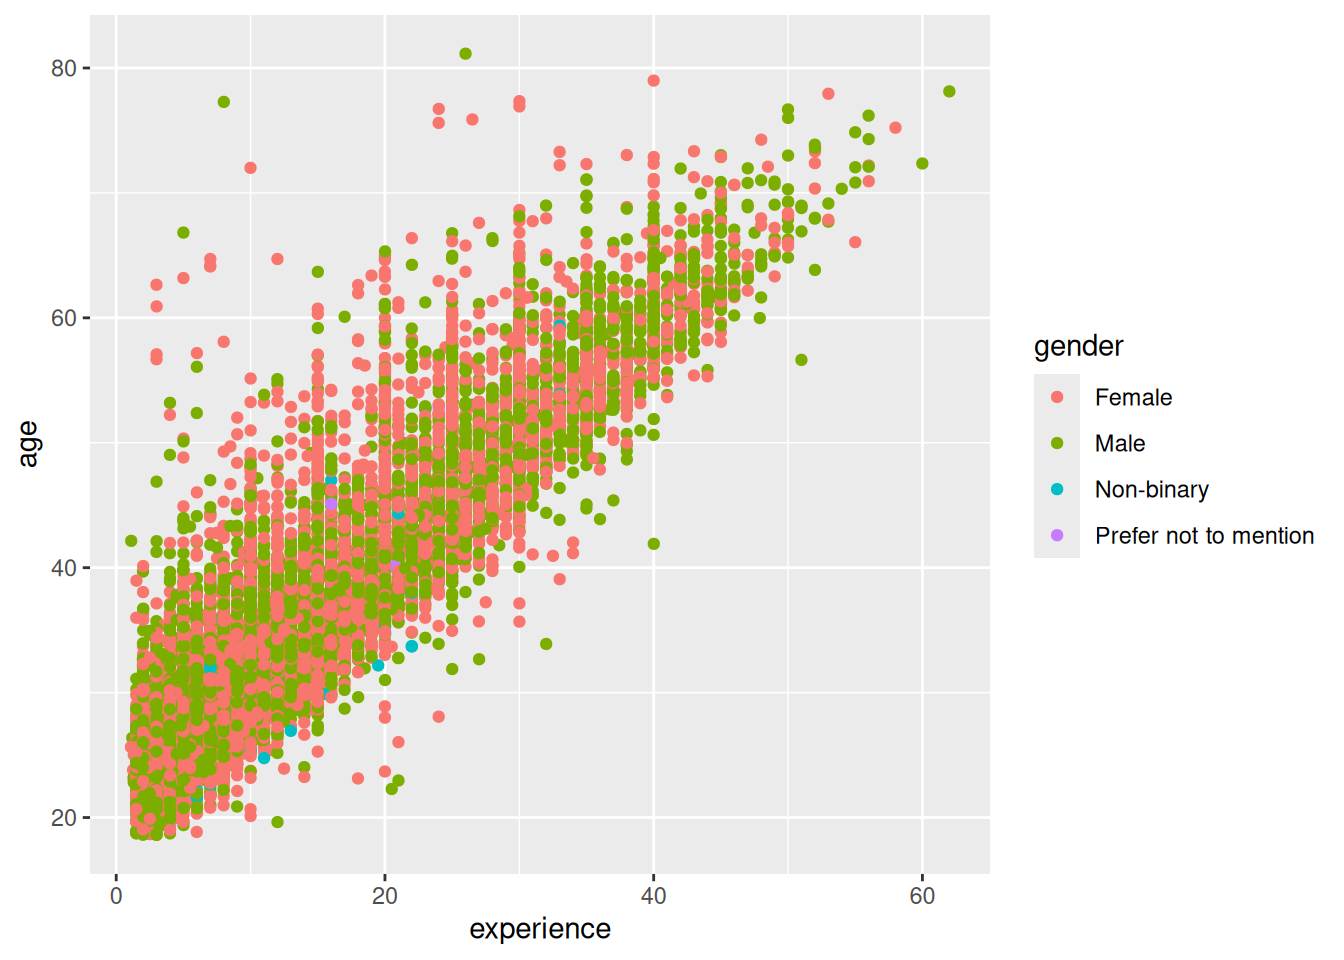
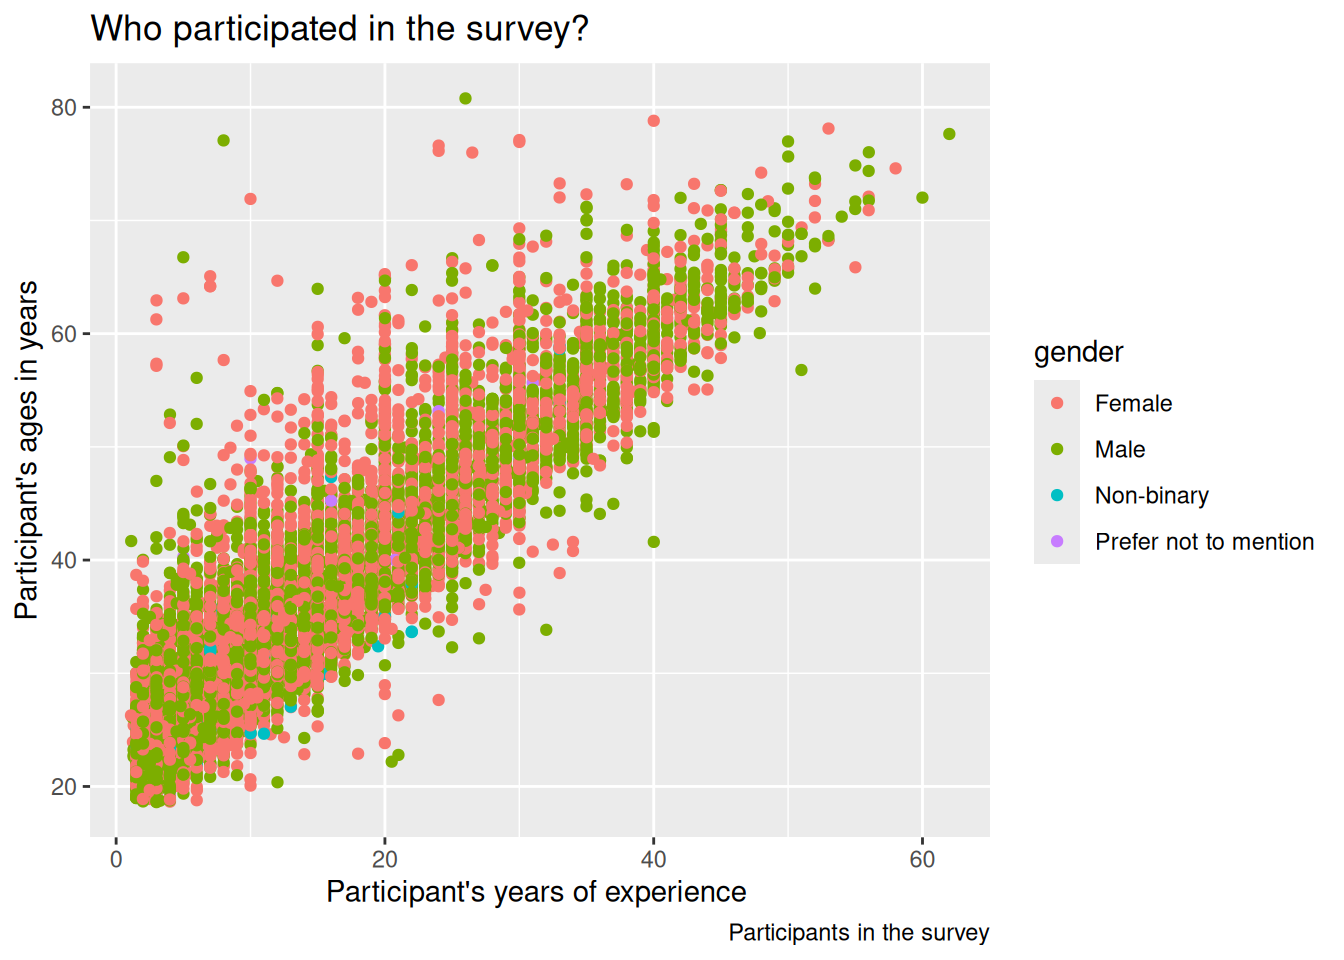
Mini Expo Done

diff --git a/docs/ResearchProject.html b/docs/ResearchProject.html
@@ -9,7 +9,7 @@
 <meta name="author" content="Diego Arias">
 <meta name="dcterms.date" content="2026-08-20">
 
-<title>Does remote work positivley impact workers in Europe? – quartoCourseBlog</title>
+<title>Does remote work positively impact workers in Europe? – quartoCourseBlog</title>
 <style>
 code{white-space: pre-wrap;}
 span.smallcaps{font-variant: small-caps;}
@@ -158,7 +158,7 @@ pre > code.sourceCode > span > a:first-child::before { text-decoration: underlin
 
 <header id="title-block-header" class="quarto-title-block default">
 <div class="quarto-title">
-<h1 class="title">Does remote work positivley impact workers in Europe?</h1>
+<h1 class="title">Does remote work positively impact workers in Europe?</h1>
   <div class="quarto-categories">
     <div class="quarto-category">goals</div>
     <div class="quarto-category">general</div>
@@ -232,26 +232,145 @@ pre > code.sourceCode > span > a:first-child::before { text-decoration: underlin
 <span id="cb6-14"><a href="#cb6-14" aria-hidden="true" tabindex="-1"></a></span>
 <span id="cb6-15"><a href="#cb6-15" aria-hidden="true" tabindex="-1"></a>new_rmap<span class="sc">$</span>experience <span class="ot">&lt;-</span> <span class="fu">as.numeric</span>(<span class="fu">gsub</span>(<span class="st">","</span>, <span class="st">"."</span>, new_rmap<span class="sc">$</span>experience))</span>
 <span id="cb6-16"><a href="#cb6-16" aria-hidden="true" tabindex="-1"></a>new_rmap<span class="sc">$</span>education <span class="ot">&lt;-</span> <span class="fu">as.numeric</span>(<span class="fu">gsub</span>(<span class="st">","</span>, <span class="st">"."</span>, new_rmap<span class="sc">$</span>education))</span>
-<span id="cb6-17"><a href="#cb6-17" aria-hidden="true" tabindex="-1"></a></span>
-<span id="cb6-18"><a href="#cb6-18" aria-hidden="true" tabindex="-1"></a></span>
-<span id="cb6-19"><a href="#cb6-19" aria-hidden="true" tabindex="-1"></a>new_rmap <span class="ot">&lt;-</span> new_rmap <span class="sc">|&gt;</span></span>
-<span id="cb6-20"><a href="#cb6-20" aria-hidden="true" tabindex="-1"></a>  <span class="fu">filter</span>(age <span class="sc">&gt;</span> <span class="dv">18</span> <span class="sc">&amp;</span> age <span class="sc">&lt;</span> <span class="dv">100</span> <span class="sc">&amp;</span> age <span class="sc">&gt;</span> experience <span class="sc">&amp;</span> remote_hours <span class="sc">&gt;=</span> <span class="dv">1</span> <span class="sc">&amp;</span> experience <span class="sc">&gt;</span> <span class="dv">1</span> <span class="sc">&amp;</span> age <span class="sc">&gt;</span> education)</span>
-<span id="cb6-21"><a href="#cb6-21" aria-hidden="true" tabindex="-1"></a></span>
-<span id="cb6-22"><a href="#cb6-22" aria-hidden="true" tabindex="-1"></a></span>
+<span id="cb6-17"><a href="#cb6-17" aria-hidden="true" tabindex="-1"></a>new_rmap<span class="sc">$</span>remote_hours <span class="ot">&lt;-</span> <span class="fu">as.numeric</span>(<span class="fu">gsub</span>(<span class="st">","</span>, <span class="st">"."</span>, new_rmap<span class="sc">$</span>remote_hours))</span>
+<span id="cb6-18"><a href="#cb6-18" aria-hidden="true" tabindex="-1"></a>new_rmap<span class="sc">$</span>office_hours <span class="ot">&lt;-</span> <span class="fu">as.numeric</span>(<span class="fu">gsub</span>(<span class="st">","</span>, <span class="st">"."</span>, new_rmap<span class="sc">$</span>office_hours))</span>
+<span id="cb6-19"><a href="#cb6-19" aria-hidden="true" tabindex="-1"></a></span>
+<span id="cb6-20"><a href="#cb6-20" aria-hidden="true" tabindex="-1"></a></span>
+<span id="cb6-21"><a href="#cb6-21" aria-hidden="true" tabindex="-1"></a>new_rmap <span class="ot">&lt;-</span> new_rmap <span class="sc">|&gt;</span></span>
+<span id="cb6-22"><a href="#cb6-22" aria-hidden="true" tabindex="-1"></a>  <span class="fu">filter</span>(age <span class="sc">&gt;</span> <span class="dv">18</span> <span class="sc">&amp;</span> age <span class="sc">&lt;</span> <span class="dv">100</span> <span class="sc">&amp;</span> age <span class="sc">&gt;</span> experience <span class="sc">&amp;</span> remote_hours <span class="sc">&gt;=</span> <span class="dv">1</span> <span class="sc">&amp;</span> experience <span class="sc">&gt;</span> <span class="dv">1</span> <span class="sc">&amp;</span> age <span class="sc">&gt;</span> education <span class="sc">&amp;</span> remote_hours <span class="sc">&lt;=</span> <span class="dv">60</span> <span class="sc">&amp;</span> office_hours <span class="sc">&lt;=</span> <span class="dv">60</span> <span class="sc">&amp;</span> remote_hours <span class="sc">+</span> office_hours <span class="sc">&lt;=</span> <span class="dv">60</span>)</span>
 <span id="cb6-23"><a href="#cb6-23" aria-hidden="true" tabindex="-1"></a></span>
-<span id="cb6-24"><a href="#cb6-24" aria-hidden="true" tabindex="-1"></a><span class="fu">ggplot</span>(</span>
-<span id="cb6-25"><a href="#cb6-25" aria-hidden="true" tabindex="-1"></a>  <span class="at">data =</span> new_rmap,</span>
-<span id="cb6-26"><a href="#cb6-26" aria-hidden="true" tabindex="-1"></a>  <span class="at">mapping =</span> <span class="fu">aes</span>(</span>
-<span id="cb6-27"><a href="#cb6-27" aria-hidden="true" tabindex="-1"></a>    <span class="at">x =</span> experience,</span>
-<span id="cb6-28"><a href="#cb6-28" aria-hidden="true" tabindex="-1"></a>    <span class="at">y =</span> age,</span>
-<span id="cb6-29"><a href="#cb6-29" aria-hidden="true" tabindex="-1"></a>    <span class="at">color =</span> gender</span>
-<span id="cb6-30"><a href="#cb6-30" aria-hidden="true" tabindex="-1"></a>  )</span>
-<span id="cb6-31"><a href="#cb6-31" aria-hidden="true" tabindex="-1"></a>) <span class="sc">+</span></span>
-<span id="cb6-32"><a href="#cb6-32" aria-hidden="true" tabindex="-1"></a>  <span class="fu">geom_point</span>(<span class="at">position =</span> <span class="st">"jitter"</span>)</span></code></pre></div><button title="Copy to Clipboard" class="code-copy-button"><i class="bi"></i></button></div>
+<span id="cb6-24"><a href="#cb6-24" aria-hidden="true" tabindex="-1"></a><span class="fu">max</span>(new_rmap<span class="sc">$</span>remote_hours, <span class="at">na.rm =</span> <span class="cn">TRUE</span>)</span></code></pre></div><button title="Copy to Clipboard" class="code-copy-button"><i class="bi"></i></button></div>
+<div class="cell-output cell-output-stdout">
+<pre><code>[1] 60</code></pre>
+</div>
+<div class="code-copy-outer-scaffold"><div class="sourceCode cell-code" id="cb8"><pre class="sourceCode r code-with-copy"><code class="sourceCode r"><span id="cb8-1"><a href="#cb8-1" aria-hidden="true" tabindex="-1"></a><span class="fu">ggplot</span>(</span>
+<span id="cb8-2"><a href="#cb8-2" aria-hidden="true" tabindex="-1"></a>  <span class="at">data =</span> new_rmap,</span>
+<span id="cb8-3"><a href="#cb8-3" aria-hidden="true" tabindex="-1"></a>  <span class="at">mapping =</span> <span class="fu">aes</span>(</span>
+<span id="cb8-4"><a href="#cb8-4" aria-hidden="true" tabindex="-1"></a>    <span class="at">x =</span> experience,</span>
+<span id="cb8-5"><a href="#cb8-5" aria-hidden="true" tabindex="-1"></a>    <span class="at">y =</span> age,</span>
+<span id="cb8-6"><a href="#cb8-6" aria-hidden="true" tabindex="-1"></a>    <span class="at">color =</span> gender</span>
+<span id="cb8-7"><a href="#cb8-7" aria-hidden="true" tabindex="-1"></a>  )</span>
+<span id="cb8-8"><a href="#cb8-8" aria-hidden="true" tabindex="-1"></a>) <span class="sc">+</span></span>
+<span id="cb8-9"><a href="#cb8-9" aria-hidden="true" tabindex="-1"></a>  <span class="fu">geom_point</span>(<span class="at">position =</span> <span class="st">"jitter"</span>) <span class="sc">+</span></span>
+<span id="cb8-10"><a href="#cb8-10" aria-hidden="true" tabindex="-1"></a>  <span class="fu">labs</span>(</span>
+<span id="cb8-11"><a href="#cb8-11" aria-hidden="true" tabindex="-1"></a>    <span class="at">title =</span> <span class="st">"Who participated in the survey?"</span>,</span>
+<span id="cb8-12"><a href="#cb8-12" aria-hidden="true" tabindex="-1"></a>    <span class="at">y =</span> <span class="st">"Participant's ages in years"</span>,</span>
+<span id="cb8-13"><a href="#cb8-13" aria-hidden="true" tabindex="-1"></a>    <span class="at">x =</span> <span class="st">"Participant's years of experience "</span>,</span>
+<span id="cb8-14"><a href="#cb8-14" aria-hidden="true" tabindex="-1"></a>    <span class="at">caption =</span> <span class="st">"Participants in the survey"</span></span>
+<span id="cb8-15"><a href="#cb8-15" aria-hidden="true" tabindex="-1"></a>  )</span></code></pre></div><button title="Copy to Clipboard" class="code-copy-button"><i class="bi"></i></button></div>
 <div class="cell-output-display">
 <div>
 <figure class="figure">
 <p><img src="ResearchProject_files/figure-html/unnamed-chunk-1-1.png" class="img-fluid figure-img" width="672"></p>
+</figure>
+</div>
+</div>
+<div class="code-copy-outer-scaffold"><div class="sourceCode cell-code" id="cb9"><pre class="sourceCode r code-with-copy"><code class="sourceCode r"><span id="cb9-1"><a href="#cb9-1" aria-hidden="true" tabindex="-1"></a><span class="fu">ggsave</span>(<span class="at">filename =</span> <span class="st">"graph1.png"</span>)</span></code></pre></div><button title="Copy to Clipboard" class="code-copy-button"><i class="bi"></i></button></div>
+<div class="cell-output cell-output-stderr">
+<pre><code>Saving 7 x 5 in image</code></pre>
+</div>
+</div>
+<div class="cell">
+<div class="code-copy-outer-scaffold"><div class="sourceCode cell-code" id="cb11"><pre class="sourceCode r code-with-copy"><code class="sourceCode r"><span id="cb11-1"><a href="#cb11-1" aria-hidden="true" tabindex="-1"></a><span class="fu">ggplot</span>(</span>
+<span id="cb11-2"><a href="#cb11-2" aria-hidden="true" tabindex="-1"></a>  <span class="at">data =</span> new_rmap,</span>
+<span id="cb11-3"><a href="#cb11-3" aria-hidden="true" tabindex="-1"></a>  <span class="at">mapping =</span> <span class="fu">aes</span>(</span>
+<span id="cb11-4"><a href="#cb11-4" aria-hidden="true" tabindex="-1"></a>    <span class="at">x =</span> remote_hours,</span>
+<span id="cb11-5"><a href="#cb11-5" aria-hidden="true" tabindex="-1"></a>    <span class="at">y =</span> office_hours,</span>
+<span id="cb11-6"><a href="#cb11-6" aria-hidden="true" tabindex="-1"></a>    <span class="at">color =</span> positive_score</span>
+<span id="cb11-7"><a href="#cb11-7" aria-hidden="true" tabindex="-1"></a>  )</span>
+<span id="cb11-8"><a href="#cb11-8" aria-hidden="true" tabindex="-1"></a>) <span class="sc">+</span></span>
+<span id="cb11-9"><a href="#cb11-9" aria-hidden="true" tabindex="-1"></a>  <span class="fu">geom_point</span>(<span class="at">position =</span> <span class="st">"jitter"</span>) <span class="sc">+</span></span>
+<span id="cb11-10"><a href="#cb11-10" aria-hidden="true" tabindex="-1"></a>  <span class="fu">labs</span>(</span>
+<span id="cb11-11"><a href="#cb11-11" aria-hidden="true" tabindex="-1"></a>    <span class="at">x =</span> <span class="st">"Hours worked remote"</span>,</span>
+<span id="cb11-12"><a href="#cb11-12" aria-hidden="true" tabindex="-1"></a>    <span class="at">y =</span> <span class="st">"Hours worked in the office"</span>,</span>
+<span id="cb11-13"><a href="#cb11-13" aria-hidden="true" tabindex="-1"></a>    <span class="at">color =</span> <span class="st">"Positivity rating"</span>,</span>
+<span id="cb11-14"><a href="#cb11-14" aria-hidden="true" tabindex="-1"></a>    <span class="at">title =</span> <span class="st">"Remote work positively impacts my personal life"</span>,</span>
+<span id="cb11-15"><a href="#cb11-15" aria-hidden="true" tabindex="-1"></a>    <span class="at">caption =</span> <span class="st">"Data collected from Europeans who work at least 1 hour remote per week"</span></span>
+<span id="cb11-16"><a href="#cb11-16" aria-hidden="true" tabindex="-1"></a>  )</span></code></pre></div><button title="Copy to Clipboard" class="code-copy-button"><i class="bi"></i></button></div>
+<div class="cell-output-display">
+<div>
+<figure class="figure">
+<p><img src="ResearchProject_files/figure-html/unnamed-chunk-2-1.png" class="img-fluid figure-img" width="672"></p>
+</figure>
+</div>
+</div>
+<div class="code-copy-outer-scaffold"><div class="sourceCode cell-code" id="cb12"><pre class="sourceCode r code-with-copy"><code class="sourceCode r"><span id="cb12-1"><a href="#cb12-1" aria-hidden="true" tabindex="-1"></a>agree_scale <span class="ot">&lt;-</span> <span class="fu">c</span>(<span class="st">"Strongly Disagree"</span>, <span class="st">"Disagree"</span>, <span class="st">"Somewhat Disagree"</span>, <span class="st">"Neither Agree nor Disagree"</span>,  <span class="st">"Somewhat Agree"</span>, <span class="st">"Agree"</span>, <span class="st">"Strongly Agree"</span>  )</span>
+<span id="cb12-2"><a href="#cb12-2" aria-hidden="true" tabindex="-1"></a></span>
+<span id="cb12-3"><a href="#cb12-3" aria-hidden="true" tabindex="-1"></a><span class="fu">ggplot</span>(</span>
+<span id="cb12-4"><a href="#cb12-4" aria-hidden="true" tabindex="-1"></a>  <span class="at">data =</span> new_rmap,</span>
+<span id="cb12-5"><a href="#cb12-5" aria-hidden="true" tabindex="-1"></a>  <span class="at">mapping =</span> <span class="fu">aes</span>(</span>
+<span id="cb12-6"><a href="#cb12-6" aria-hidden="true" tabindex="-1"></a>    <span class="at">x =</span> <span class="fu">factor</span>(positive_score, <span class="at">levels =</span> agree_scale),</span>
+<span id="cb12-7"><a href="#cb12-7" aria-hidden="true" tabindex="-1"></a>    <span class="at">y =</span> remote_hours</span>
+<span id="cb12-8"><a href="#cb12-8" aria-hidden="true" tabindex="-1"></a>  )</span>
+<span id="cb12-9"><a href="#cb12-9" aria-hidden="true" tabindex="-1"></a>) <span class="sc">+</span></span>
+<span id="cb12-10"><a href="#cb12-10" aria-hidden="true" tabindex="-1"></a>  <span class="fu">geom_boxplot</span>() <span class="sc">+</span></span>
+<span id="cb12-11"><a href="#cb12-11" aria-hidden="true" tabindex="-1"></a>  <span class="fu">labs</span>(</span>
+<span id="cb12-12"><a href="#cb12-12" aria-hidden="true" tabindex="-1"></a>    <span class="at">x =</span> <span class="st">"Hours worked remote"</span>,</span>
+<span id="cb12-13"><a href="#cb12-13" aria-hidden="true" tabindex="-1"></a>    <span class="at">y =</span> <span class="st">"Hours worked in the office"</span>,</span>
+<span id="cb12-14"><a href="#cb12-14" aria-hidden="true" tabindex="-1"></a>    <span class="at">color =</span> <span class="st">"Positivity rating"</span>,</span>
+<span id="cb12-15"><a href="#cb12-15" aria-hidden="true" tabindex="-1"></a>    <span class="at">title =</span> <span class="st">"Remote work positively impacts my personal life"</span>,</span>
+<span id="cb12-16"><a href="#cb12-16" aria-hidden="true" tabindex="-1"></a>    <span class="at">caption =</span> <span class="st">"Data collected from Europeans who work at least 1 hour remote per week"</span></span>
+<span id="cb12-17"><a href="#cb12-17" aria-hidden="true" tabindex="-1"></a>  )</span></code></pre></div><button title="Copy to Clipboard" class="code-copy-button"><i class="bi"></i></button></div>
+<div class="cell-output cell-output-stderr">
+<pre><code>Ignoring unknown labels:
+• colour : "Positivity rating"</code></pre>
+</div>
+<div class="cell-output-display">
+<div>
+<figure class="figure">
+<p><img src="ResearchProject_files/figure-html/unnamed-chunk-2-2.png" class="img-fluid figure-img" width="672"></p>
+</figure>
+</div>
+</div>
+</div>
+<p>Negativity score</p>
+<div class="cell">
+<div class="code-copy-outer-scaffold"><div class="sourceCode cell-code" id="cb14"><pre class="sourceCode r code-with-copy"><code class="sourceCode r"><span id="cb14-1"><a href="#cb14-1" aria-hidden="true" tabindex="-1"></a><span class="fu">ggplot</span>(</span>
+<span id="cb14-2"><a href="#cb14-2" aria-hidden="true" tabindex="-1"></a>  <span class="at">data =</span> new_rmap,</span>
+<span id="cb14-3"><a href="#cb14-3" aria-hidden="true" tabindex="-1"></a>  <span class="at">mapping =</span> <span class="fu">aes</span>(</span>
+<span id="cb14-4"><a href="#cb14-4" aria-hidden="true" tabindex="-1"></a>    <span class="at">x =</span> remote_hours,</span>
+<span id="cb14-5"><a href="#cb14-5" aria-hidden="true" tabindex="-1"></a>    <span class="at">y =</span> office_hours,</span>
+<span id="cb14-6"><a href="#cb14-6" aria-hidden="true" tabindex="-1"></a>    <span class="at">color =</span> negative_score</span>
+<span id="cb14-7"><a href="#cb14-7" aria-hidden="true" tabindex="-1"></a>  )</span>
+<span id="cb14-8"><a href="#cb14-8" aria-hidden="true" tabindex="-1"></a>) <span class="sc">+</span></span>
+<span id="cb14-9"><a href="#cb14-9" aria-hidden="true" tabindex="-1"></a>  <span class="fu">geom_point</span>(<span class="at">position =</span> <span class="st">"jitter"</span>)<span class="sc">+</span></span>
+<span id="cb14-10"><a href="#cb14-10" aria-hidden="true" tabindex="-1"></a>  <span class="fu">labs</span>(</span>
+<span id="cb14-11"><a href="#cb14-11" aria-hidden="true" tabindex="-1"></a>    <span class="at">x =</span> <span class="st">"Hours worked remote"</span>,</span>
+<span id="cb14-12"><a href="#cb14-12" aria-hidden="true" tabindex="-1"></a>    <span class="at">y =</span> <span class="st">"Hours worked in the office"</span>,</span>
+<span id="cb14-13"><a href="#cb14-13" aria-hidden="true" tabindex="-1"></a>    <span class="at">color =</span> <span class="st">'Negativity rating'</span>,</span>
+<span id="cb14-14"><a href="#cb14-14" aria-hidden="true" tabindex="-1"></a>    <span class="at">title =</span> <span class="st">"Remote work negatively impacts my career advancement."</span>,</span>
+<span id="cb14-15"><a href="#cb14-15" aria-hidden="true" tabindex="-1"></a>    <span class="at">caption =</span> <span class="st">"Data collected from Europeans who work at least 1 hour remote per week"</span></span>
+<span id="cb14-16"><a href="#cb14-16" aria-hidden="true" tabindex="-1"></a>  )</span></code></pre></div><button title="Copy to Clipboard" class="code-copy-button"><i class="bi"></i></button></div>
+<div class="cell-output-display">
+<div>
+<figure class="figure">
+<p><img src="ResearchProject_files/figure-html/unnamed-chunk-3-1.png" class="img-fluid figure-img" width="672"></p>
+</figure>
+</div>
+</div>
+</div>
+<p>DIFFICULT work life balance</p>
+<div class="cell">
+<div class="code-copy-outer-scaffold"><div class="sourceCode cell-code" id="cb15"><pre class="sourceCode r code-with-copy"><code class="sourceCode r"><span id="cb15-1"><a href="#cb15-1" aria-hidden="true" tabindex="-1"></a><span class="fu">ggplot</span>(</span>
+<span id="cb15-2"><a href="#cb15-2" aria-hidden="true" tabindex="-1"></a>  <span class="at">data =</span> new_rmap,</span>
+<span id="cb15-3"><a href="#cb15-3" aria-hidden="true" tabindex="-1"></a>  <span class="at">mapping =</span> <span class="fu">aes</span>(</span>
+<span id="cb15-4"><a href="#cb15-4" aria-hidden="true" tabindex="-1"></a>    <span class="at">x =</span> <span class="fu">factor</span>(work_life_bal, <span class="at">levels =</span> agree_scale),</span>
+<span id="cb15-5"><a href="#cb15-5" aria-hidden="true" tabindex="-1"></a>    <span class="at">color =</span> gender</span>
+<span id="cb15-6"><a href="#cb15-6" aria-hidden="true" tabindex="-1"></a>  )</span>
+<span id="cb15-7"><a href="#cb15-7" aria-hidden="true" tabindex="-1"></a>) <span class="sc">+</span></span>
+<span id="cb15-8"><a href="#cb15-8" aria-hidden="true" tabindex="-1"></a>  <span class="fu">geom_bar</span>()<span class="sc">+</span></span>
+<span id="cb15-9"><a href="#cb15-9" aria-hidden="true" tabindex="-1"></a>  <span class="fu">labs</span>(</span>
+<span id="cb15-10"><a href="#cb15-10" aria-hidden="true" tabindex="-1"></a>    <span class="at">title =</span> <span class="st">"I find it difficult to maintain a healthy work-life balance while working remotely."</span>,</span>
+<span id="cb15-11"><a href="#cb15-11" aria-hidden="true" tabindex="-1"></a>    <span class="at">x =</span> <span class="st">"Count"</span>,</span>
+<span id="cb15-12"><a href="#cb15-12" aria-hidden="true" tabindex="-1"></a>    <span class="at">y =</span> <span class="st">""</span></span>
+<span id="cb15-13"><a href="#cb15-13" aria-hidden="true" tabindex="-1"></a>  ) <span class="sc">+</span></span>
+<span id="cb15-14"><a href="#cb15-14" aria-hidden="true" tabindex="-1"></a>  <span class="fu">theme</span>(</span>
+<span id="cb15-15"><a href="#cb15-15" aria-hidden="true" tabindex="-1"></a>    <span class="at">axis.text =</span> <span class="fu">element_text</span>(<span class="at">size =</span> <span class="fl">4.5</span>)</span>
+<span id="cb15-16"><a href="#cb15-16" aria-hidden="true" tabindex="-1"></a>  )</span></code></pre></div><button title="Copy to Clipboard" class="code-copy-button"><i class="bi"></i></button></div>
+<div class="cell-output-display">
+<div>
+<figure class="figure">
+<p><img src="ResearchProject_files/figure-html/unnamed-chunk-4-1.png" class="img-fluid figure-img" width="672"></p>
 </figure>
 </div>
 </div>
